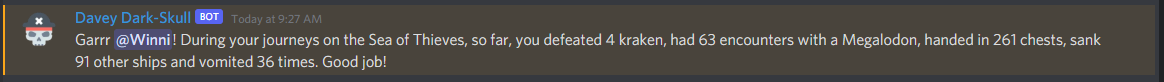
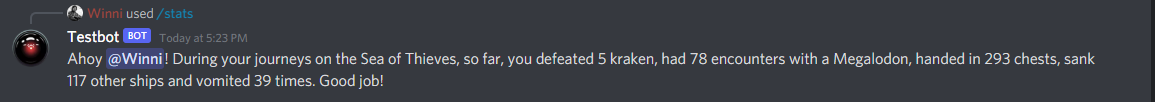
v1.4.6-DEV: Slash all the commands \o/
* Converted `!ledger` into slash cmd `/ledger`
* Converted `!stats` into slash cmd `/stats`
* Updated `!help` accordingly
* Updated README.md
* Updated screenshots

Changed region(s): [[0.0, 0.0488, 0.9662, 0.8537]]

diff --git a/bot/command_handler.go b/bot/command_handler.go
@@ -235,71 +235,6 @@ func (b *Bot) CommandHandler(s *discordgo.Session, m *discordgo.MessageCreate) {
 		response.AnswerUser(s, m, re, true)
 		return
 
-	// SoT: Show user's reputation with a faction/company
-	case (command == "!reputation" || command == "!rep"):
-		if !userObj.IsRegistered() {
-			return
-		}
-		if !userObj.HasRatCookie() {
-			return
-		}
-		var re string
-		var err error
-		if cmdNum != 2 {
-			re, err = handler.GetSotReputation(b.HttpClient, userObj, "")
-		}
-		if cmdNum == 2 {
-			re, err = handler.GetSotReputation(b.HttpClient, userObj, msgArray[1])
-		}
-		if err != nil {
-			re = fmt.Sprintf("An error occurred checking your SoT reputation level: %v", err)
-			response.AnswerUser(s, m, re, true)
-			return
-		}
-		response.AnswerUser(s, m, re, true)
-		return
-
-	// SoT: Show user's ledger position with a faction/company
-	case (command == "!ledger" || command == "!led"):
-		if !userObj.IsRegistered() {
-			return
-		}
-		if !userObj.HasRatCookie() {
-			return
-		}
-		var re string
-		var err error
-		if cmdNum != 2 {
-			re, err = handler.GetSotLedger(b.HttpClient, userObj, "")
-		}
-		if cmdNum == 2 {
-			re, err = handler.GetSotLedger(b.HttpClient, userObj, msgArray[1])
-		}
-		if err != nil {
-			re = fmt.Sprintf("An error occurred checking your SoT ledger rank: %v", err)
-			response.AnswerUser(s, m, re, true)
-			return
-		}
-		response.AnswerUser(s, m, re, true)
-		return
-
-	// SoT: Show user's general stats
-	case (command == "!stats" || command == "!stat") && cmdNum == 1:
-		if !userObj.IsRegistered() {
-			return
-		}
-		if !userObj.HasRatCookie() {
-			return
-		}
-		re, err := handler.GetSotStats(b.HttpClient, userObj)
-		if err != nil {
-			re = fmt.Sprintf("An error occurred checking your SoT general stats: %v", err)
-			response.AnswerUser(s, m, re, true)
-			return
-		}
-		response.AnswerUser(s, m, re, true)
-		return
-
 	// SoT: Quote a random SoT pirate code article
 	case command == "!code" && cmdNum == 1:
 		em, err := handler.GetSotRandomCode()

diff --git a/bot/slashcmd_handler.go b/bot/slashcmd_handler.go
@@ -191,5 +191,48 @@ func (b *Bot) SlashCmdHandler(s *discordgo.Session, i *discordgo.InteractionCrea
 		}
 		response.SlashCmdResponseEdit(s, i.Interaction, userObj, re, true)
 		return
+
+	// SoT: Retrieve user ledger position with a specific faction/company
+	case cmdName == "ledger":
+		response.SlashCmdResponseDeferred(s, i.Interaction)
+		if !userObj.IsRegistered() {
+			response.SlashCmdDel(s, i.Interaction)
+			return
+		}
+		if !userObj.HasRatCookie() {
+			response.SlashCmdDel(s, i.Interaction)
+			return
+		}
+		ledFaction := i.Data.Options[0].StringValue()
+		re, err := handler.GetSotLedger(b.HttpClient, userObj, ledFaction)
+		if err != nil {
+			response.SlashCmdDel(s, i.Interaction)
+			re = fmt.Sprintf("An error occurred checking your SoT ledger: %v", err)
+			response.SlashCmdResponse(s, i.Interaction, userObj, re, true)
+			return
+		}
+		response.SlashCmdResponseEdit(s, i.Interaction, userObj, re, true)
+		return
+
+	// SoT: Retrieve user ledger position with a specific faction/company
+	case cmdName == "stats":
+		response.SlashCmdResponseDeferred(s, i.Interaction)
+		if !userObj.IsRegistered() {
+			response.SlashCmdDel(s, i.Interaction)
+			return
+		}
+		if !userObj.HasRatCookie() {
+			response.SlashCmdDel(s, i.Interaction)
+			return
+		}
+		re, err := handler.GetSotStats(b.HttpClient, userObj)
+		if err != nil {
+			response.SlashCmdDel(s, i.Interaction)
+			re = fmt.Sprintf("An error occurred checking your SoT user stats: %v", err)
+			response.SlashCmdResponse(s, i.Interaction, userObj, re, true)
+			return
+		}
+		response.SlashCmdResponseEdit(s, i.Interaction, userObj, re, true)
+		return
 	}
 }

diff --git a/bot/slashcmd_list.go b/bot/slashcmd_list.go
@@ -92,6 +92,33 @@ func (b *Bot) SlashCmdList() []*discordgo.ApplicationCommand {
 				},
 			},
 		},
+
+		// SoT: Get users overall ledger position for a specific faction/company
+		{
+			Name:        "ledger",
+			Description: "Let SoTBot tell you your current SoT ledger position with a specific faction/company",
+			Options: []*discordgo.ApplicationCommandOption{
+				{
+					Type:        discordgo.ApplicationCommandOptionString,
+					Name:        "faction",
+					Description: "Name of the faction/company",
+					Required:    true,
+					Choices: []*discordgo.ApplicationCommandOptionChoice{
+						{Name: "Athena's Fortune", Value: "athena"},
+						{Name: "Gold Hoarder", Value: "hoarder"},
+						{Name: "Merchang Alliance", Value: "merchant"},
+						{Name: "Order of Souls", Value: "order"},
+						{Name: "Reaper's Bone", Value: "reaper"},
+					},
+				},
+			},
+		},
+
+		// SoT: Get the users stats
+		{
+			Name:        "stats",
+			Description: "Let SoTBot tell you some SoT user stats",
+		},
 	}
 
 	return slashCmds

diff --git a/handler/help.go b/handler/help.go
@@ -19,7 +19,6 @@ func Help() []string {
    [!unregister|!unreg] <@nick>  - Delete <@nick> from registered user's database
    [!memory|!mem]                - Show some memory usage information`, `Sea of Thieves specific commands:
    !code                         - Replies with a random SoT pirate code article
-   [!ledger|!led] <fac.>         - Replies with your current ledger position/rank in the requested faction[1][2]
    !season                       - Replies with your current SoT season progress[1][2]
    !tr                           - Replies with the current traderoutes from rarethief
    [!setrat|!rat] <cookie>       - Set/update your SoT RAT cookie in the bot's DB[1][3]

diff --git a/handler/sot_stats.go b/handler/sot_stats.go
@@ -20,7 +20,7 @@ func GetSotStats(h *http.Client, u *user.User) (string, error) {
 	}
 	responseMsg := fmt.Sprintf("During your journeys on the Sea of Thieves, so far, you defeated %d "+
 		"kraken, had %d encounters with a Megalodon, handed in %d chests, sank %d other ships and vomited "+
-		"%d times. Good job!", userStats.KrakenDefeated, userStats.MegalodonEncounters, userStats.ChestsHandedIn,
+		"%d times. Good times!", userStats.KrakenDefeated, userStats.MegalodonEncounters, userStats.ChestsHandedIn,
 		userStats.ShipsSunk, userStats.VomitedTotal)
 	return responseMsg, nil
 }

diff --git a/README.md b/README.md
@@ -142,6 +142,28 @@ Supported factions:
 Example:
 ![Screenshot !rep merchant](documentation/reputation.png)
 
+#### Faction/company ledger stats
+With the `/ledger` or slash command, followed by one of the supported faction names, the bot fetch
+your current position in the factions ledger, together with the rank and the amount of poins missing, to level
+up to the next rank.
+
+Supported factions:
+* athena
+* hoarder
+* merchant
+* order
+* reaper
+
+Example:
+![Screenshot !rep ledger](documentation/ledger.png)
+
+#### General statistics
+The `/stats` slash command will provide you with some general stats about your SoT travels
+
+Example:
+![Screenshot !stats](documentation/stats.png)
+
+
 ## Commands
 SoTBot is heavily influenced by the Eggdrop bots of the olden IRC days. A couple of its commands are SoT-themed, but
 there are couple of fun non SoT-related commands as well.
@@ -225,33 +247,12 @@ summary of it.
 Example:
 ![Screenshot !season](documentation/season.png)
 
-#### Faction/company ledger stats
-With the `!ledger` or `!led` command, followed by one of the supported faction names, the bot fetch
-your current position in the factions ledger, together with the rank and the amount of poins missing, to level
-up to the next rank.
-
-Supported factions:
-* athena
-* hoarder
-* merchant
-* order
-* reaper
-
-Example:
-![Screenshot !rep ledger](documentation/ledger.png)
-
 #### The pirate code
 When you issue a `!code` in the channel, the bot will present you with a random article from the SoT's pirate
 code.
 
 Example:
 ![Screenshot !code](documentation/code.png)
-
-#### General statistics
-The `!stats` or `!stat` command will provide you with some general stats about your SoT travels
-
-Example:
-![Screenshot !stats](documentation/stats.png)
 
 #### Traderoutes
 Get the current Traderoutes from rarethief.com with `!tr`
